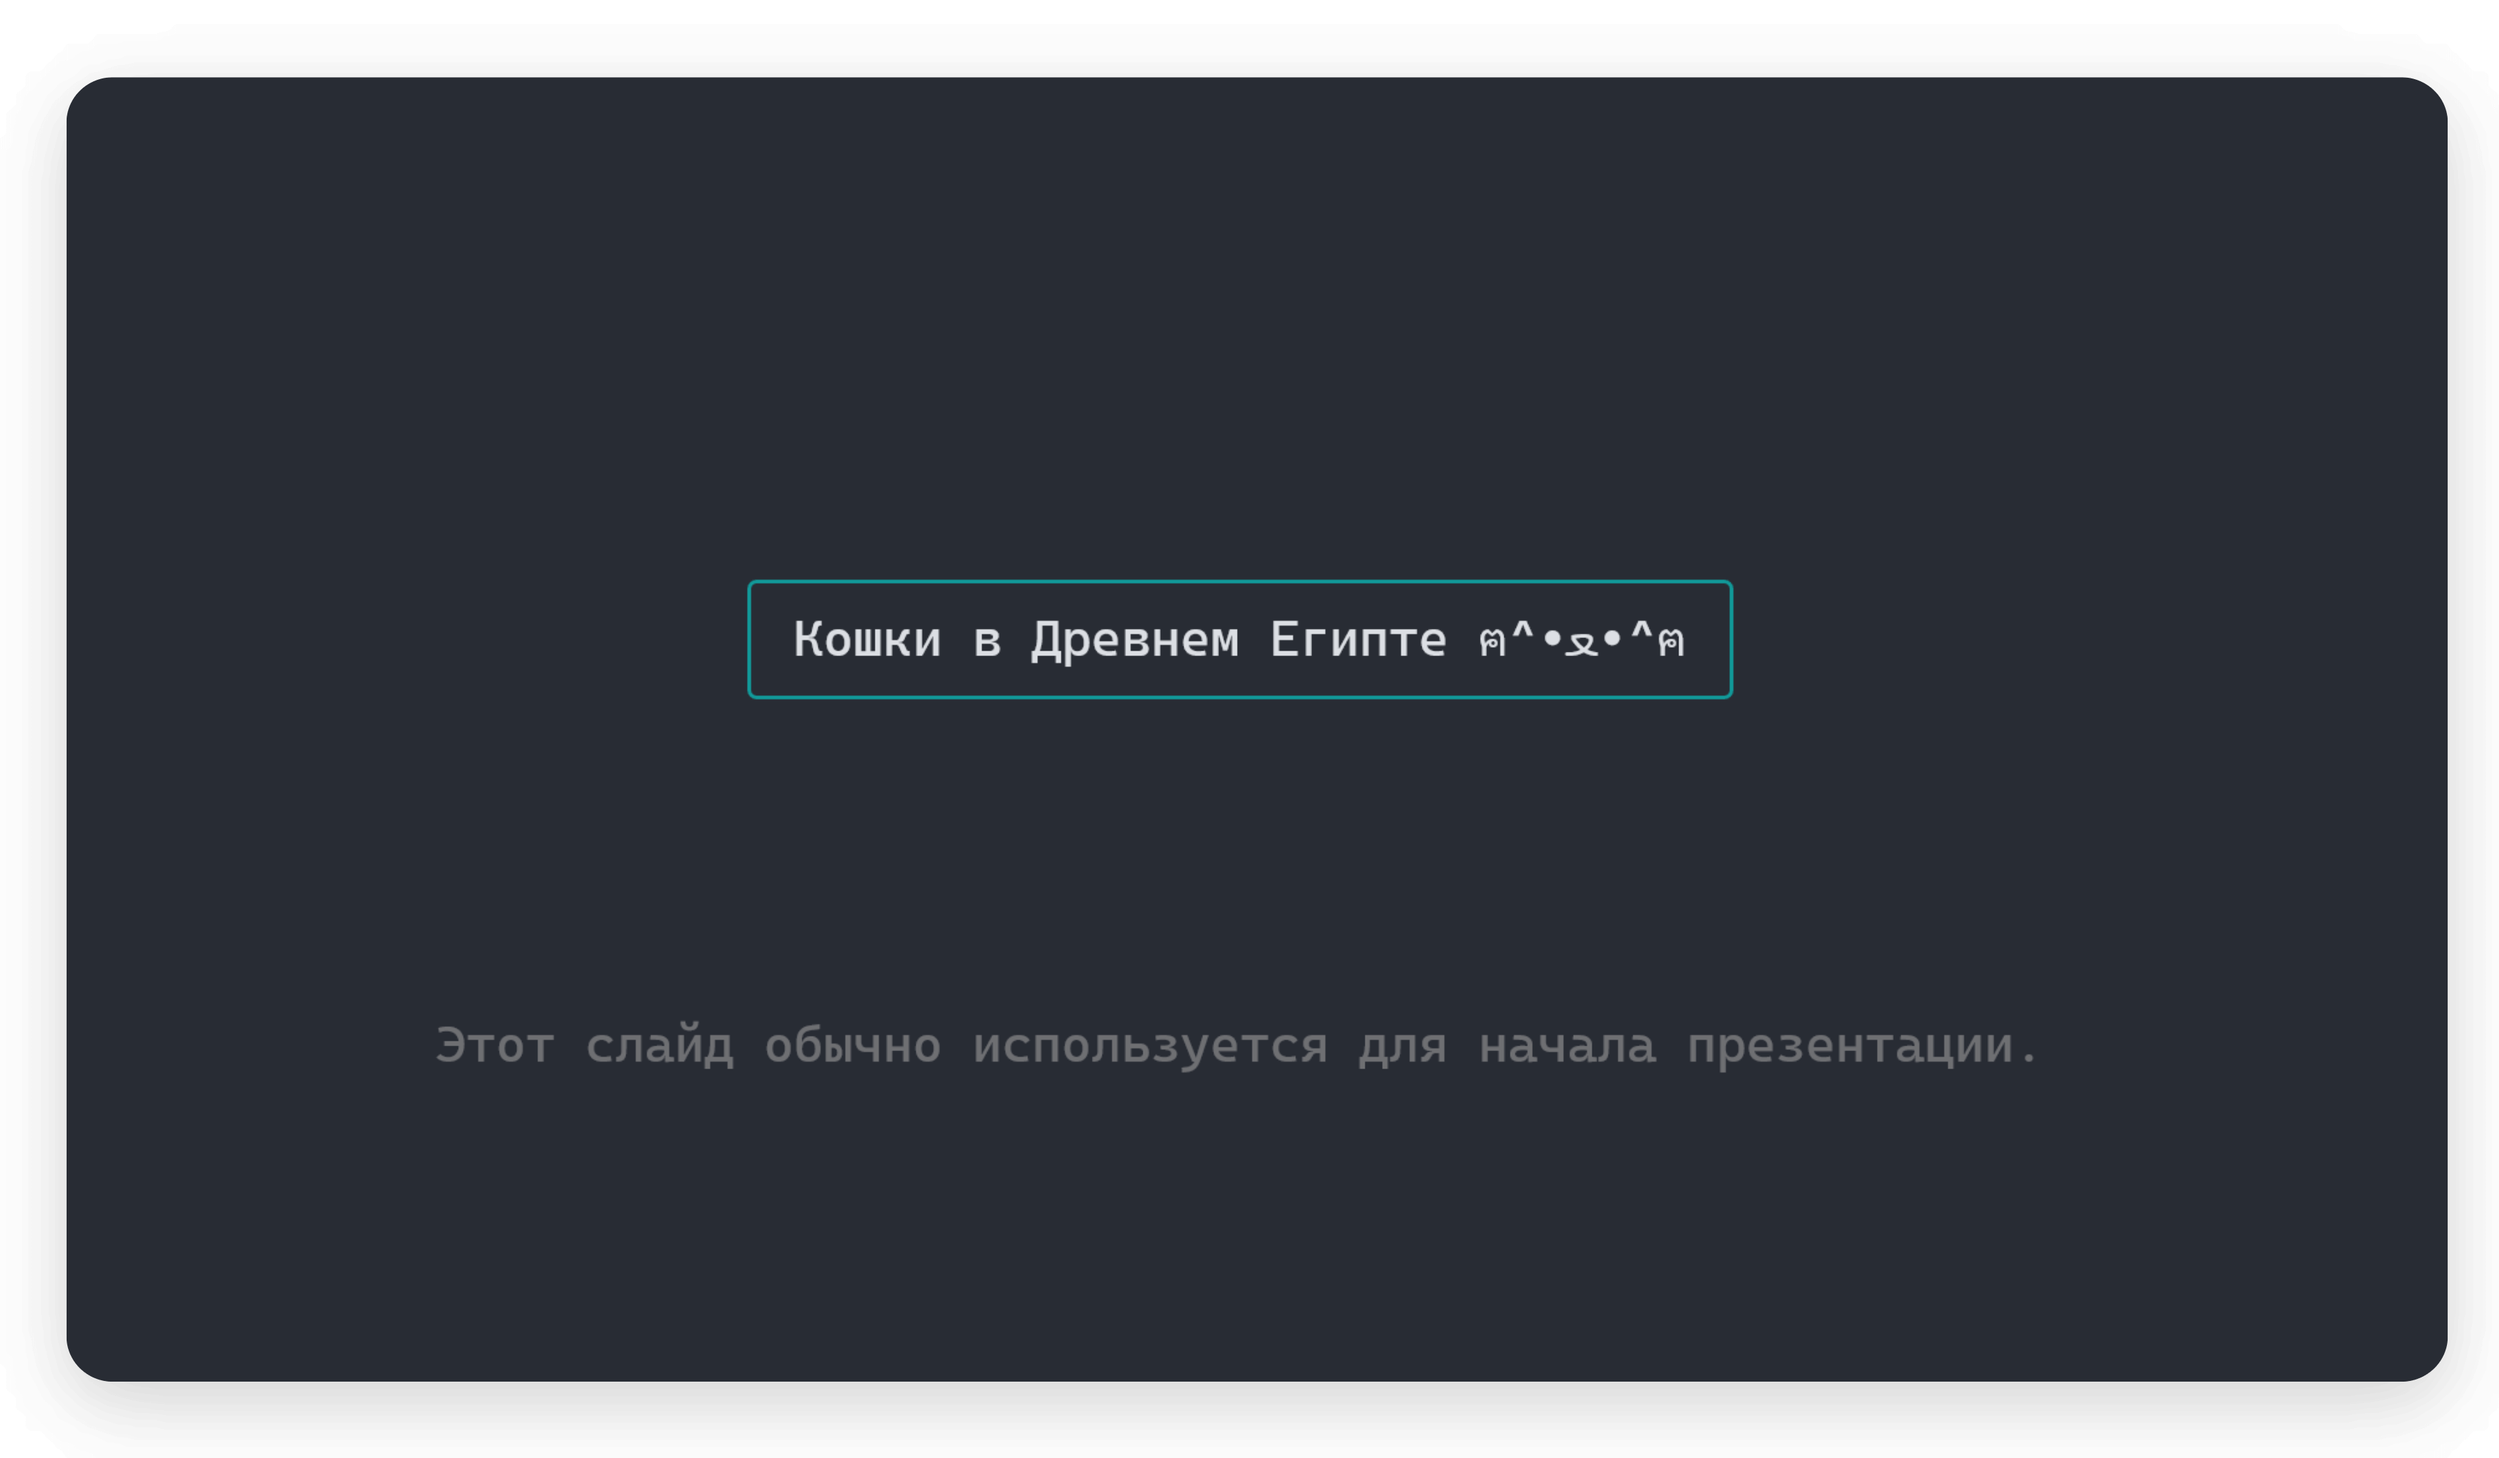
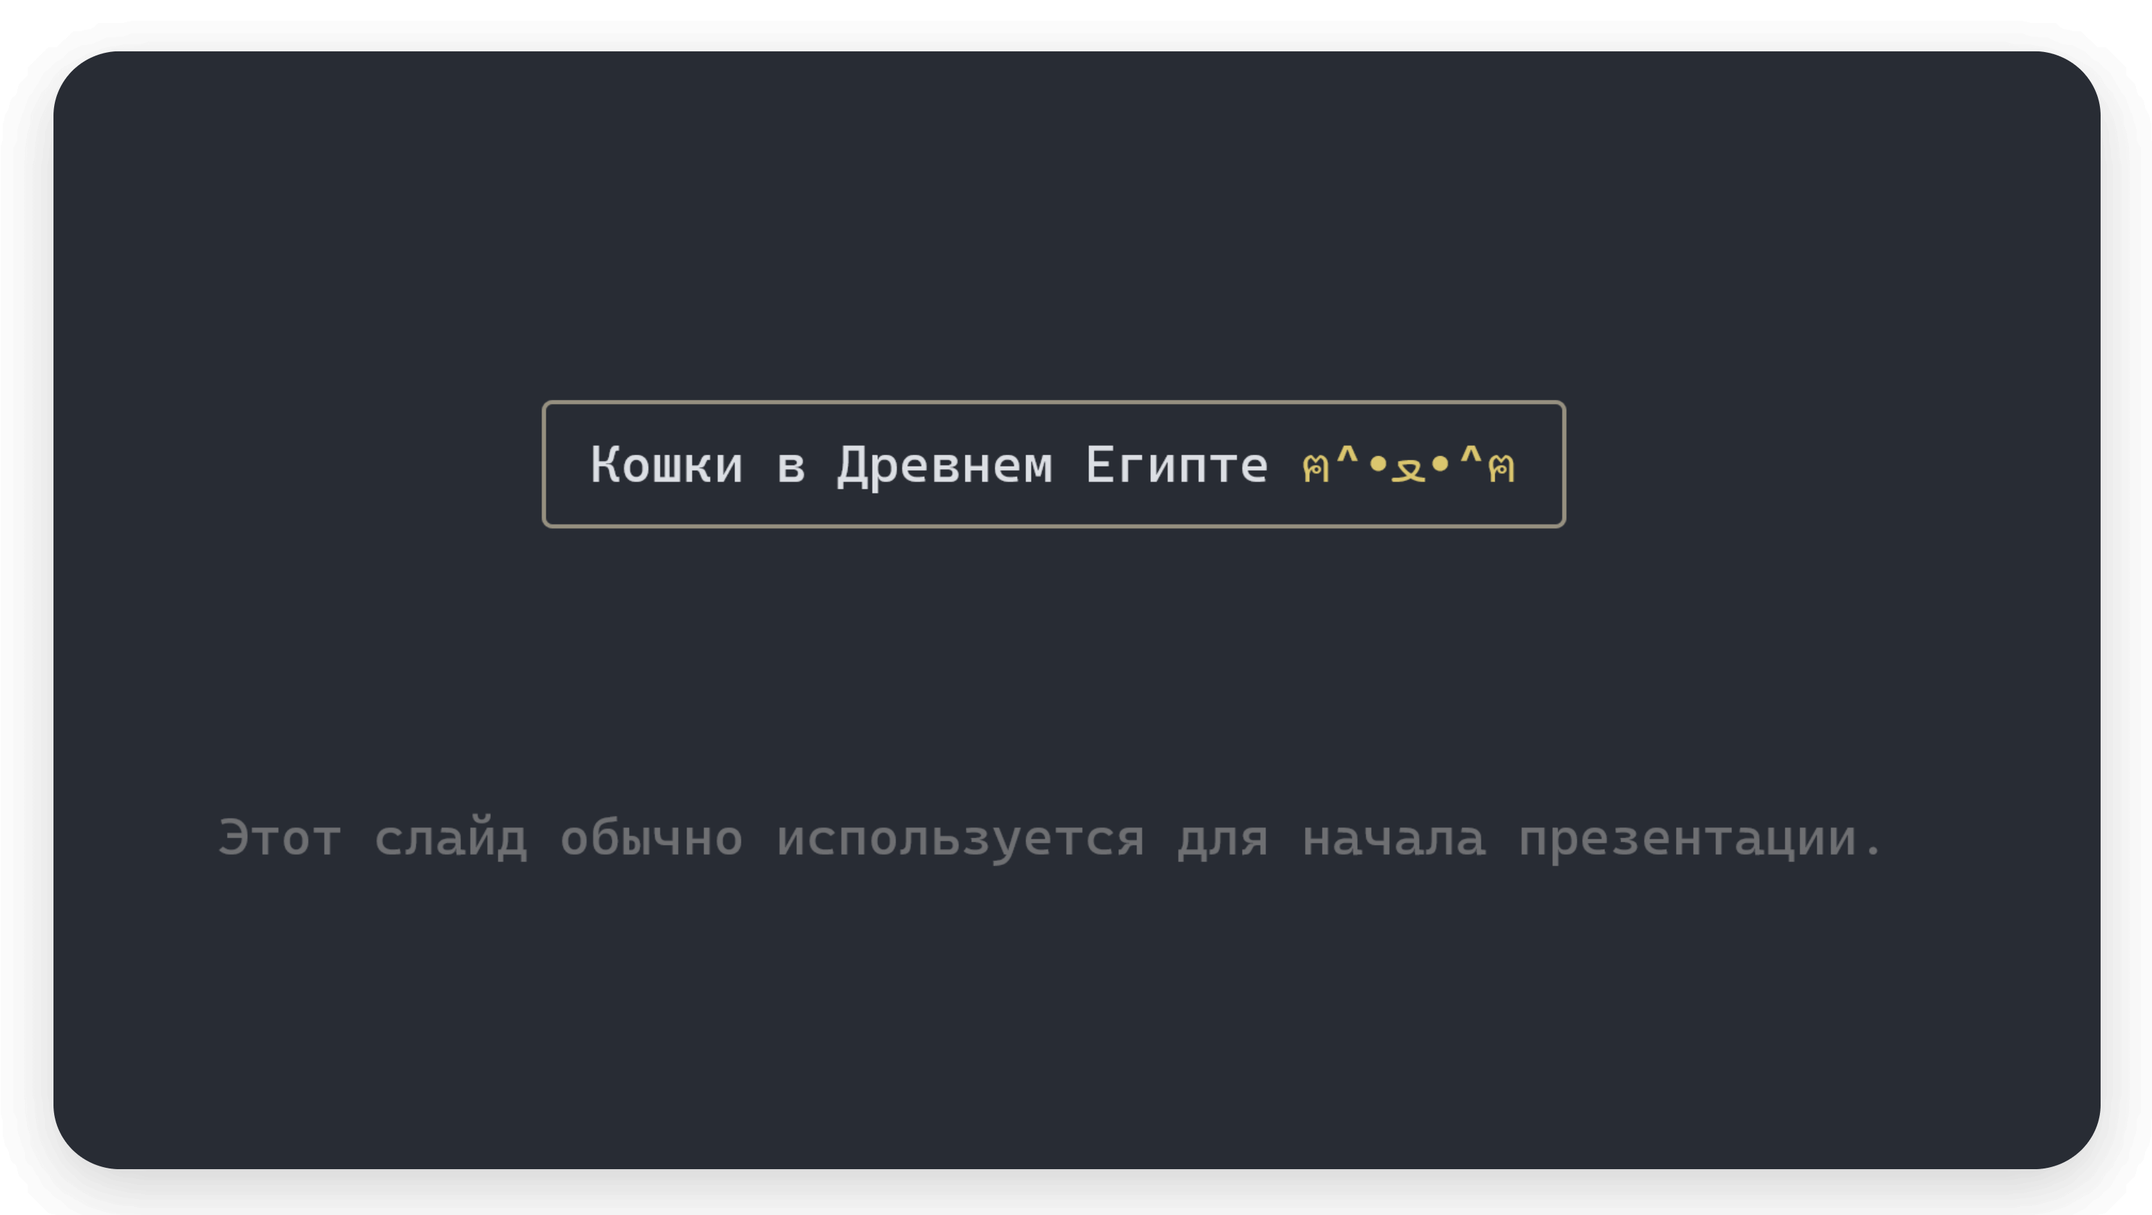
docs: added slide images for documentation

diff --git a/docs/index.md b/docs/index.md
@@ -54,9 +54,9 @@ def generate_subtitle() -> Table:
 
 
 title_slide = TitleSlide(
-    "Кошки в Древнем Египте ฅ^•ﻌ•^ฅ",
+    "Кошки в Древнем Египте [#dbc66e]ฅ^•ﻌ•^ฅ",
 	subtitle=generate_subtitle(),
-	border_style="#119999"
+	border_style="#969080"
 )
 
 title_slide.show()
@@ -73,7 +73,7 @@ title_slide.show()
 
 ### TitleImageSlide
 
-![TitleImageSlide.png](https://ibb.org.ru/images/2024/10/11/TitleImageSlide.png)
+![TitleImageSlide.png](images/TitleImageSlide.png)
 
 ```python
 from pypresentation.slide import TitleImageSlide
@@ -101,7 +101,7 @@ title_image_slide = TitleImageSlide(
 title_image_slide.show()
 ```
 
-Картинку для этого слайда можете скачать [тут](https://ibb.org.ru/images/2024/10/11/brain.png).
+Картинку для этого слайда можете скачать [тут](./images/brain.png).
 
 Если вы запустите этот код, то слайд может отличаться от картинки, в этом случае рекомендую поиграться с размером
 шрифта в вашем терминале.

diff --git a/README.md b/README.md
@@ -38,15 +38,13 @@ def generate_subtitle() -> Table:
 	return table
 
 
-presentation = Presentation()
 title_slide = TitleSlide(
 	"[#aac7ff]pypresentation[/] - библиотека для создания презентаций",
 	generate_subtitle(),
 	border_style="#74777f"
 )
 
-presentation.add(title_slide)
-presentation.start()
+title_slide.show()
 ```
 
 ## Документация
